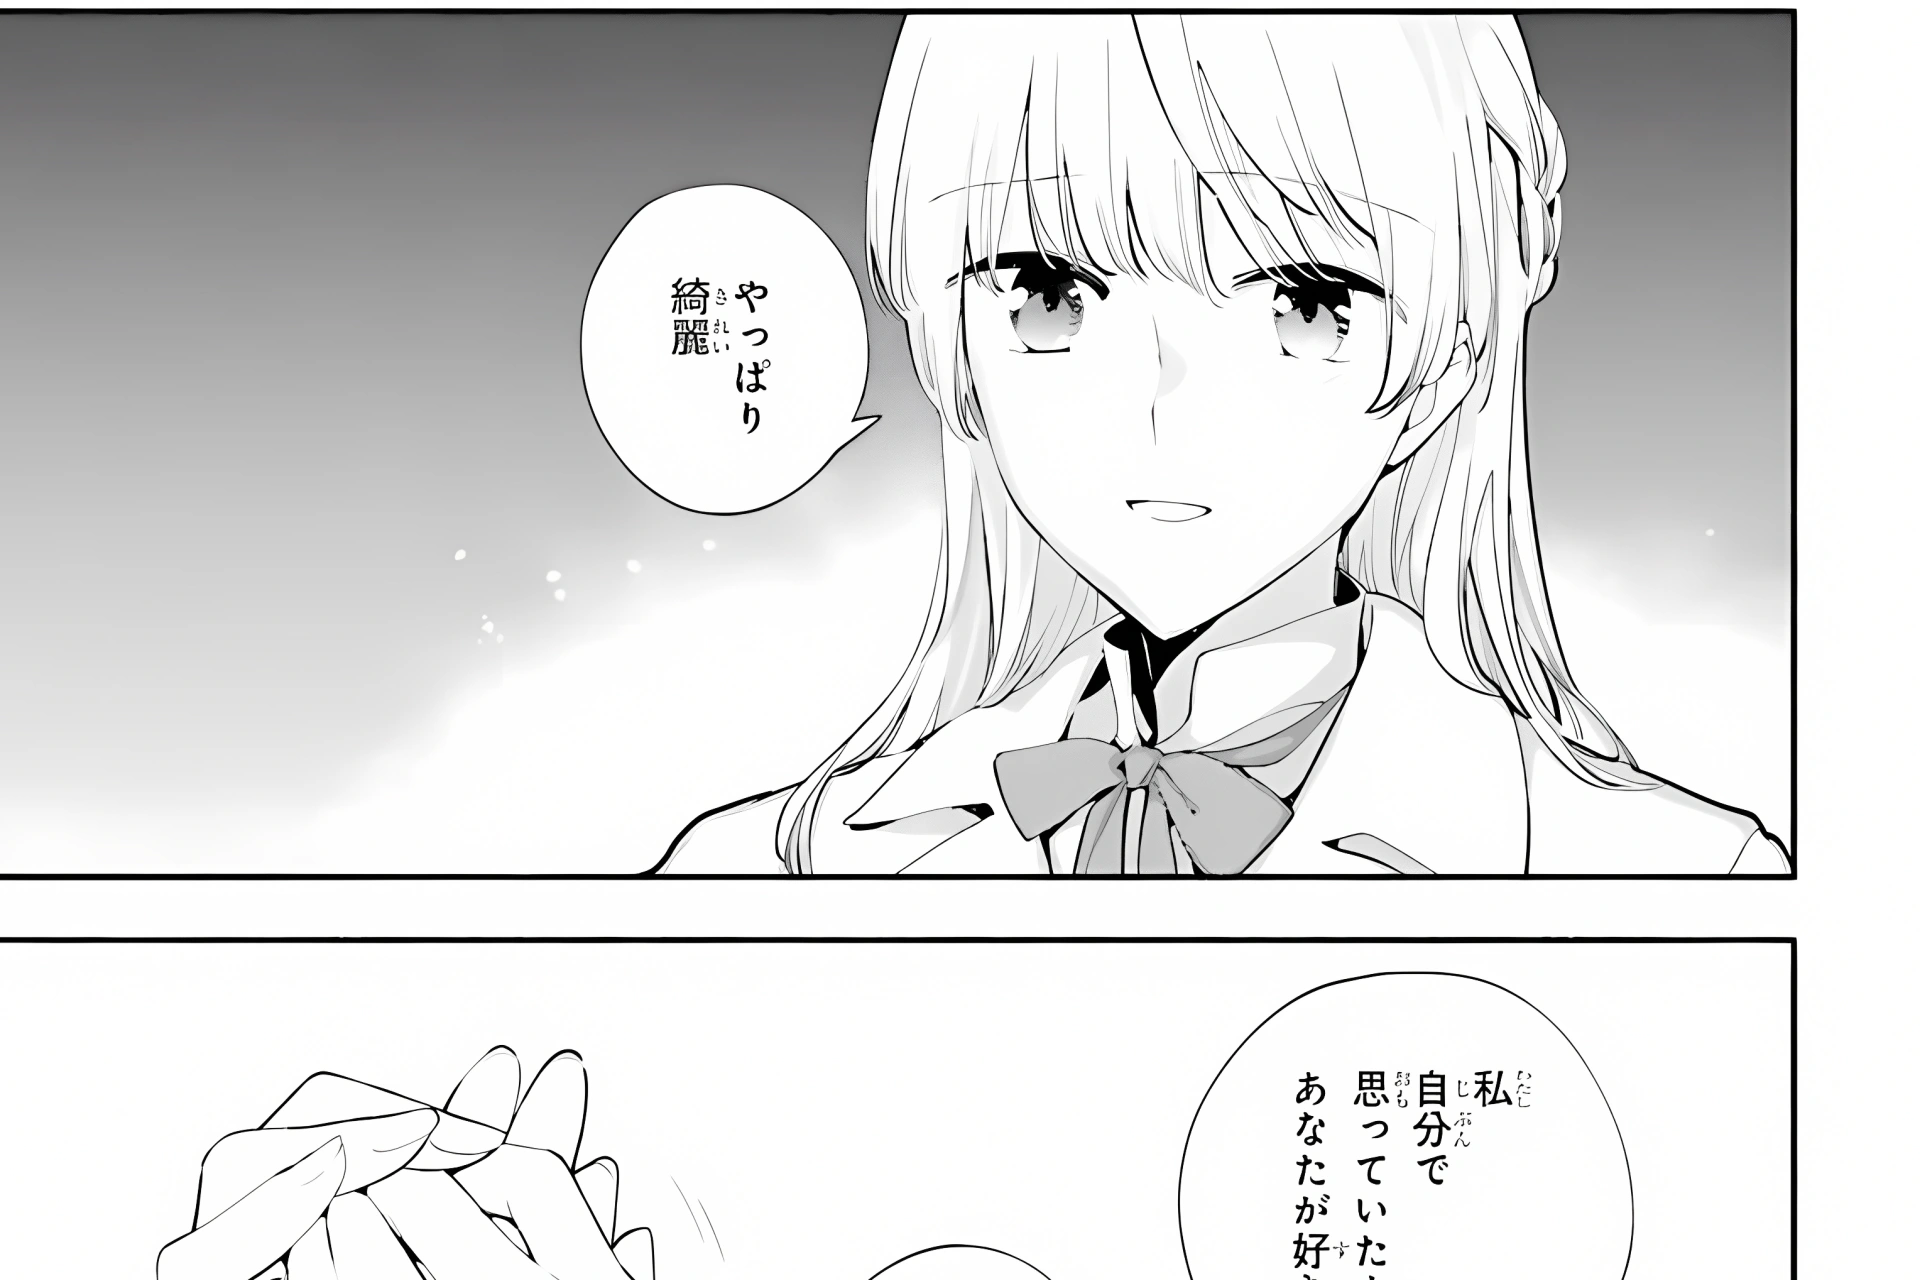
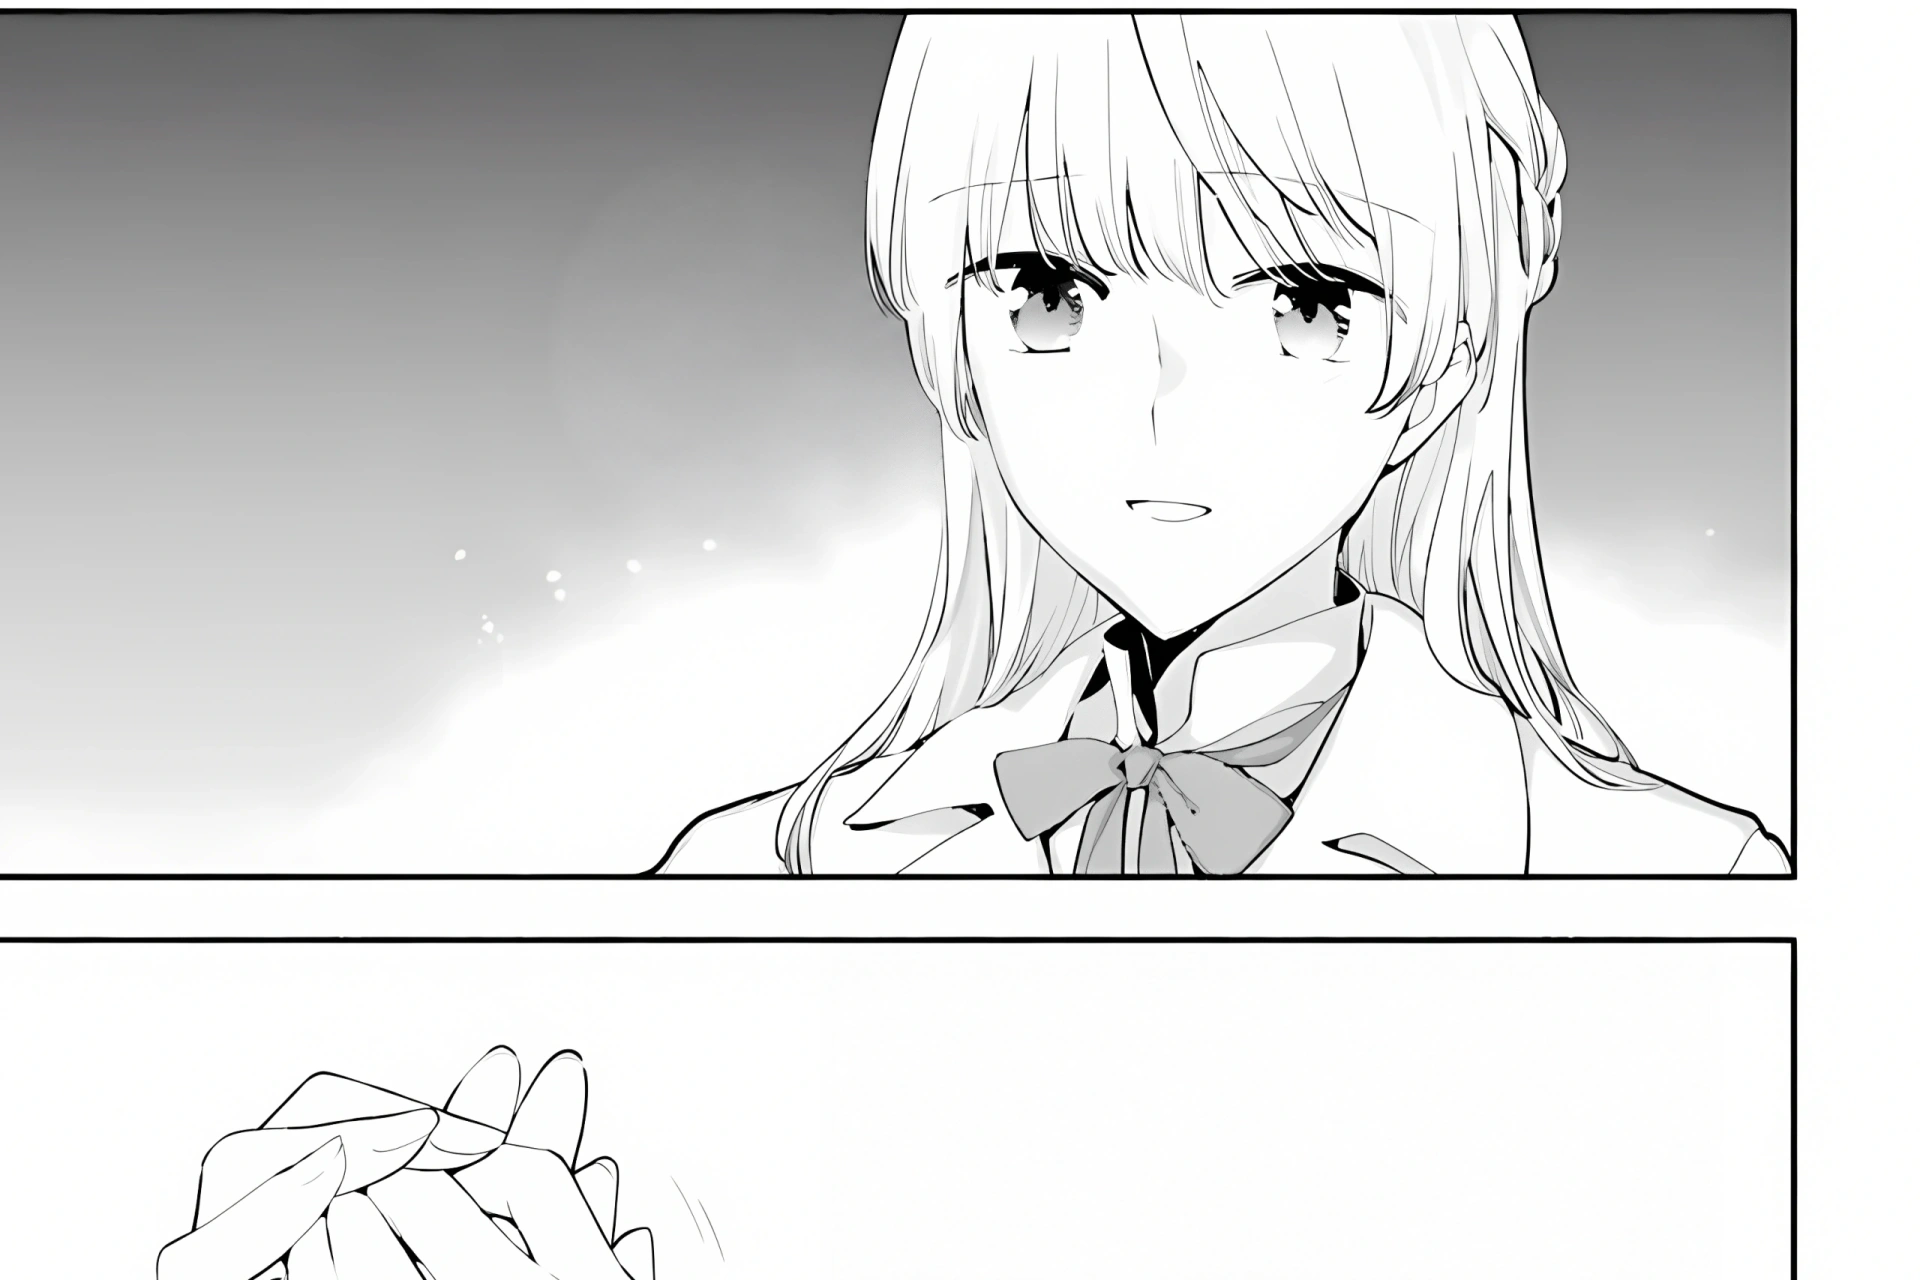
fix: remove dialogue balloons while preserving image framing

diff --git a/README.md b/README.md
@@ -39,7 +39,7 @@ The owner's original essay and character/relationship commentary prose, only whe
 
 ## Rights checks and contact
 
-Every build checks `lib/rights-register.json`, the fixed asset baseline and script provenance hashes. Existing unverified assets may retain only their established bytes. New or modified images/fonts need recorded sources, usage grounds, scope, reviewer and review date. Expired permissions block the build. Assets marked `suspended` or `retired` must not enter the output or page links. An unverified record is not evidence of permission.
+Every build checks `lib/rights-register.json`, the fixed asset baseline and script provenance hashes. Existing unverified assets retain their established bytes. Owner-reviewed dialogue-removal edits record the original hashes separately and remain unverified. New or modified images/fonts need recorded sources, usage grounds, scope, reviewer and review date. Expired permissions block the build. Assets marked `suspended` or `retired` must not enter the output or page links. An unverified record is not evidence of permission.
 
 Run `node --test lib/rights.test.mjs` to exercise these safeguards. Run `node lib/setup-git-hooks.mjs` to install this checkout's commit-email checks. It preserves your existing name, email and global settings; existing hooks need manual integration. Checks cover author/committer emails and new commits being pushed. Continuous integration also checks the new commit range.
 

diff --git a/README.zh-CN.md b/README.zh-CN.md
@@ -50,7 +50,8 @@ node scripts/check-pages.mjs
 ## 权利检查与联系
 
 每次构建会核对 `lib/rights-register.json`、固定素材基线和脚本来源哈希。
-现有待核实素材只允许保留原字节；增加或修改图片/字体必须记录来源、权利依据、
+现有待核实素材保留原字节；站主复核的对白移除另记原始哈希，权利状态仍未核实。
+增加或修改图片/字体必须记录来源、权利依据、
 适用范围、审核人与审核日期。授权到期会阻止构建。`suspended`/`retired` 资源
 不得进入发布目录或页面引用；登记为待核实不代表已取得授权。
 
